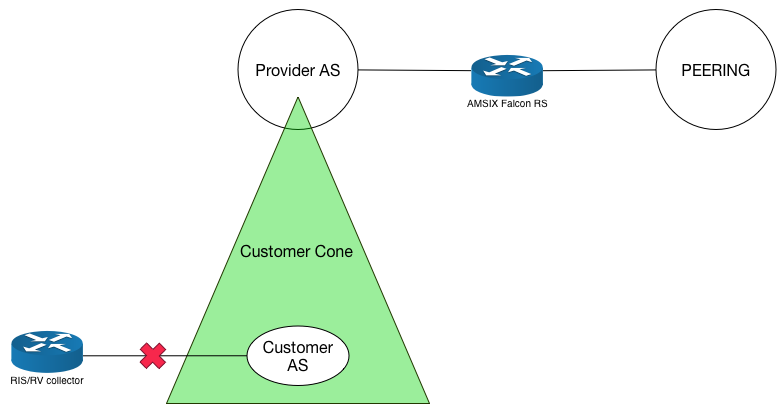
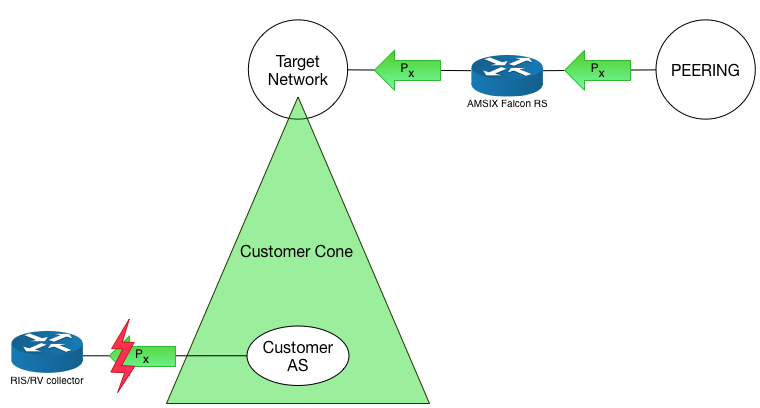
Reworked analysis page a bit

diff --git a/analysis.md b/analysis.md
@@ -5,12 +5,16 @@ permalink: /analysis
 ---
 # Unexpected cases
 
+#### Definitions:
+
+**Target network**: AS that peers either directly with PEERING or with the falcon routeserver, and receives our prefix advertisements.
+
 #### Case 1.1:
 **Announcement via**: Falcon routeserver
 
 **Target network**: is falcon peer, is monitor
 
-**Target network prefix visibility**: None or partial 
+**Prefix visibility**: None or partial 
 
 ![alt text]({{site.baseurl}}images/case_1_1.png "Case 1.1")
 
@@ -19,7 +23,7 @@ permalink: /analysis
 
 **Target network**: is direct peer, is monitor
 
-**Target network prefix visibility**: None or partial 
+**Prefix visibility**: None or partial 
 
 ![alt text]({{site.baseurl}}images/case_1_2.png "Case 1.2")
 
@@ -30,7 +34,7 @@ permalink: /analysis
 
 **Target network**: is monitor, is customer of a falcon peer 
 
-**Target network prefix visibility**: None or partial
+**Prefix visibility**: None or partial
 
 ![alt text]({{site.baseurl}}images/case_2_1.png "Case 2.1")
 
@@ -39,7 +43,7 @@ permalink: /analysis
 
 **Target network**: is monitor, is customer of the direct peer
 
-**Target network prefix visibility**: None or partial
+**Prefix visibility**: None or partial
 
 ![alt text]({{site.baseurl}}images/case_2_2.png "Case 2.2")
 
@@ -50,7 +54,7 @@ permalink: /analysis
 
 **Target networks**: A is falcon peer, B is customer of A, both are monitors, (**??B is not falcon peer??**)
 
-**Target network prefix visibility**: Mismatch in prefix visibility between A and B
+**Prefix visibility**: Mismatch in prefix visibility between A and B
 
 ![alt text]({{site.baseurl}}images/case_3_1.png "Case 3.1")
 
@@ -59,6 +63,6 @@ permalink: /analysis
 
 **Target networks**: A is direct peer, B is customer of A, both are monitors, (**??B is not direct peer??**)
 
-**Target network prefix visibility**: Mismatch in prefix visibility between A and B
+**Prefix visibility**: Mismatch in prefix visibility between A and B
 
 ![alt text]({{site.baseurl}}images/case_3_2.png "Case 3.2")
